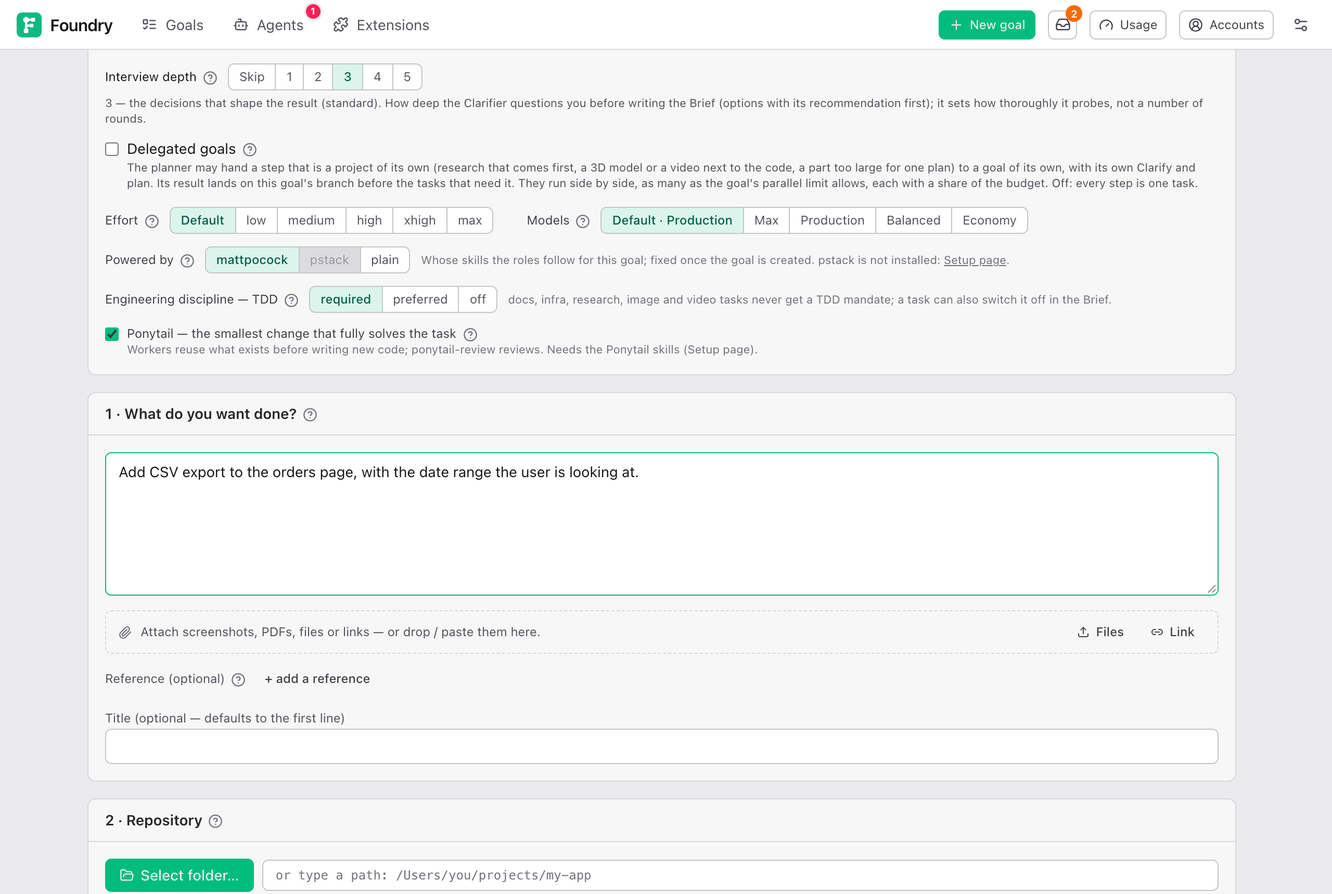
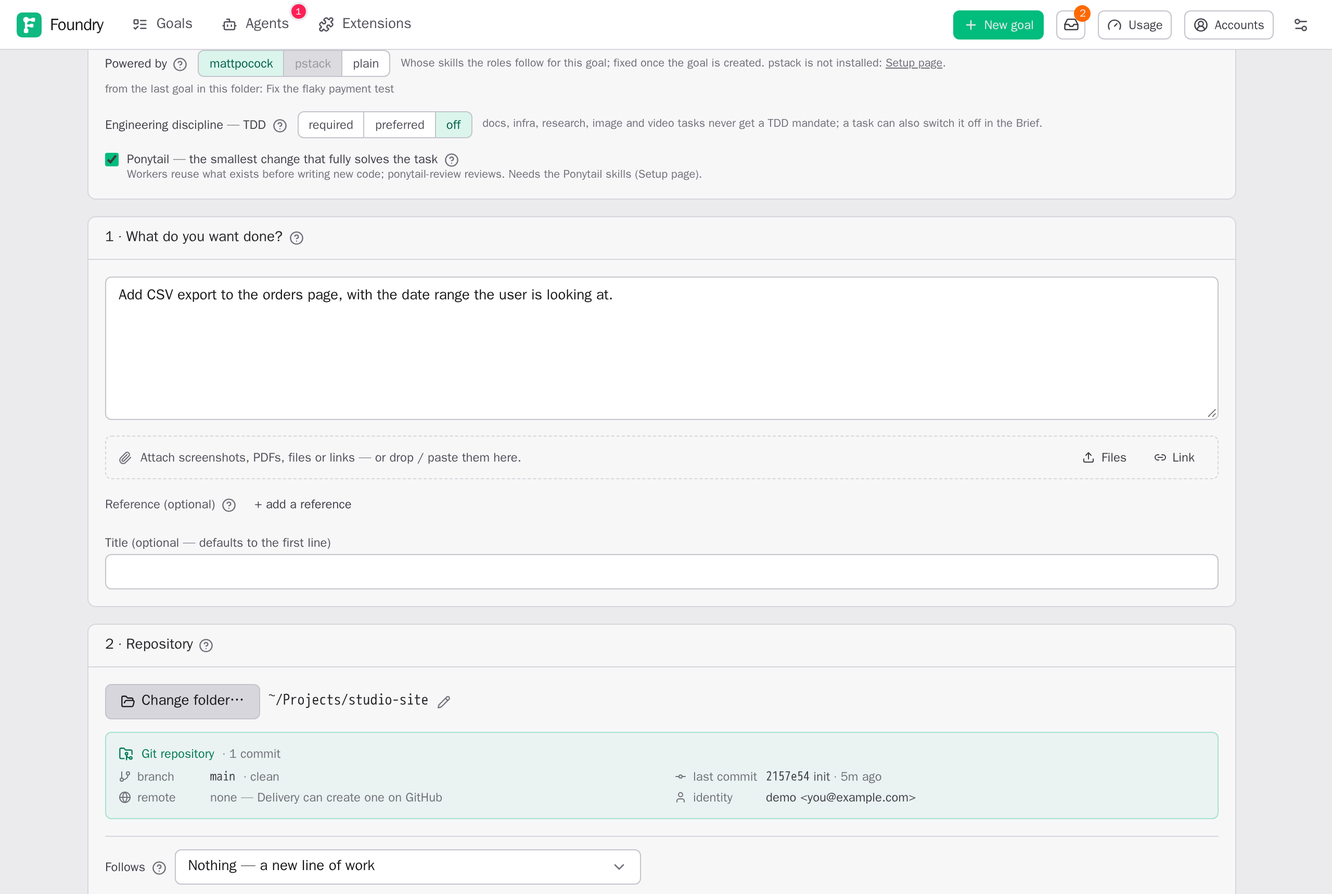
chore(new-goal): Document folder workflow defaults in both guides
Task: t_0mvgnmh5r02gyaesy6o
Goal: g_0mvgmzhkm00zmnhhzzf

diff --git a/scripts/screenshots.ts b/scripts/screenshots.ts
@@ -28,9 +28,13 @@ const mask = async () => {
   await page.evaluate(() => {
     // the dot on the ⚙ menu reports this machine's missing tools, not the demo's
     document.querySelector('button[aria-label="Settings, setup, help and theme"] span.bg-rose-500')?.remove();
+    // a ready repository can report the host's global git identity
+    for (const label of document.querySelectorAll('span')) {
+      if (label.textContent === 'identity' && label.nextElementSibling) label.nextElementSibling.textContent = 'demo <you@example.com>';
+    }
     const walk = document.createTreeWalker(document.body, NodeFilter.SHOW_TEXT);
     for (let n = walk.nextNode(); n; n = walk.nextNode()) {
-      n.textContent = (n.textContent ?? '').replace(/[\w.+-]+@[\w-]+(\.[\w-]+)+/g, 'you@example.com').replace(/\/(?:private\/)?var\/folders\/[^\s·]*?\/foundry-demo-[^/\s]+\//g, '~/Projects/');
+      n.textContent = (n.textContent ?? '').replace(/[\w.+-]+@[\w-]+(\.[\w-]+)+/g, 'you@example.com').replace(/\/(?:private\/)?(?:var\/folders\/[^\s·]*?\/|tmp\/)foundry-demo-[^/\s]+\//g, '~/Projects/');
     }
   });
 };
@@ -139,7 +143,16 @@ try {
     await page.evaluate(() => Array.from(document.querySelectorAll('div')).find((d) => d.textContent?.startsWith('Setup incomplete') && d.parentElement?.textContent !== d.textContent)?.remove());
   }, 560);
   await shot('new-goal', '/goals/new', async () => {
+    await page.getByRole('button', { name: 'Expert', exact: false }).click();
     await page.locator('textarea').first().fill('Add CSV export to the orders page, with the date range the user is looking at.');
+    const source = getGoal(demo.engine.store.db, g.blocked!);
+    if (!source) throw new Error('New goal capture needs a seeded repository');
+    const folder = page.getByPlaceholder('or type a path: /Users/you/projects/my-app');
+    await folder.fill(source.repoPath);
+    await folder.press('Enter');
+    await page.getByText('Git repository', { exact: false }).waitFor();
+    await page.getByText(`from the last goal in this folder: ${source.title}`, { exact: true }).waitFor();
+    await page.getByText('Powered by', { exact: true }).evaluate((el) => el.parentElement?.scrollIntoView({ block: 'start' }));
   });
   await shot('interview', `/goals/${g.interview}`);
   await shot('brief', `/goals/${g.brief}/brief`);

diff --git a/docs/guide/your-first-goal.md b/docs/guide/your-first-goal.md
@@ -59,7 +59,13 @@ Foundry works in a *repository*: a project folder that git keeps history for. Yo
 
 Press **New goal** in the top bar. The four numbered steps at the top right (**Goal**, **Repository**, **Budget**, **Delivery**) show how far you are. **Goal** turns green once you describe the goal, **Repository** once a ready folder is picked. **Budget** and **Delivery** are always green: their defaults work. The form starts with two cards of choices; the numbered cards **1** to **4** follow.
 
-Several choices start from [Settings → New goal defaults](./settings.md#new-goal-defaults): the view, **Fast mode**, TDD, Ponytail, the workflow suite, and the delivery mode and granularity. Change any of them here for this goal. A field you change on the page keeps your choice. Picking a ready repository folder fills untouched **Workflow suite**, **TDD** and **Ponytail** from the newest goal created in that exact folder (excluding imported history). In Expert view, a muted note under **Powered by** names it: `from the last goal in this folder: <title>`. The note stays while at least one field inherits from it. While validation is pending or fails, or if the folder has no earlier goal, untouched fields use Settings defaults. Revalidating after a pull or initialization refreshes them. A **Follow-up** opened from a goal page takes these three choices from that chosen goal instead, including its current saved Ponytail value, even if the folder has a newer goal. Later Settings or folder validation responses do not replace them, and the folder source note is hidden. You can still change them before creating the goal; the on-page **Follows** picker only links goals. Simple view still submits preferred TDD; Fast mode leaves TDD off.
+Several choices start from [Settings → New goal defaults](./settings.md#new-goal-defaults): the view, **Fast mode**, TDD, Ponytail, the workflow suite, and the delivery mode and granularity. You can change them for this goal.
+
+Picking a ready repository folder fills untouched **Workflow suite**, **TDD** and **Ponytail** from the newest goal by creation time in that exact folder path. Goals that are still imported history are excluded. The values come from the goal's current saved choices, including any later Ponytail change. Each field you change on this page keeps your choice. In Expert view, a muted note under **Powered by** names the source: `from the last goal in this folder: <title>`. It stays while at least one of the three fields still inherits from that goal.
+
+Picking another folder immediately resets untouched fields to Settings defaults and hides the old note. They stay at Settings defaults while validation is pending, if the folder is invalid or has no commits, or if it has no earlier goal. Successful validation applies that folder's latest values; revalidating after a pull or initialization refreshes them too.
+
+A **Follow-up** opened from a goal page prefills all three fields from the chosen earlier goal instead, even if the folder has a newer goal. Later Settings or folder validation responses do not replace them, and the folder source note is hidden. You can still change them before creating the goal. The on-page **Follows** picker only links goals. Simple view keeps the inherited suite and Ponytail but submits **preferred** TDD; **Fast mode** omits TDD, so the engine defaults it to **off**.
 
 ![The New goal form with the shared Coding agent selector](images/new-goal.png)
 
@@ -139,7 +145,7 @@ For **Auto** goals, **Default · By goal type** captures the configured defaults
 
 ### Workflow suite
 
-Only in Expert view, and **pstack** only once the Setup page has installed it (the card **Workflow suite — pstack** installs Foundry's own copy of one pinned release, without the plugin's hooks; Claude loads it per session, Codex gets its skills linked into the goal's workspace). Until then the option is greyed out; a folder's inherited pstack selection is kept, with installation guidance. **Powered by** picks whose skills the roles follow for this goal: **mattpocock** (the default: Matt Pocock's suite — tests first for features, diagnose first for bugs, code review at the end), **pstack** (pstack's suite, with Matt Pocock's skills where pstack has none) or **plain** (no rules: sessions only hear which skills are installed). The choice is fixed when the goal is created; a follow-up starts from the earlier goal's choice, and a delegated goal takes its main goal's. Simple view keeps the inherited suite, falling back to Settings when the folder has no earlier goal. The goal page and the Brief show it as a **Powered by** chip.
+The selector appears only in Expert view. **pstack** is available once the Setup page has installed it (the card **Workflow suite — pstack** installs Foundry's own copy of one pinned release, without the plugin's hooks; Claude loads it per session, Codex gets its skills linked into the goal's workspace). Until then the option is greyed out; a pstack selection inherited from a folder or Follow-up is kept, with installation guidance and the engine's existing fallback rules. **Powered by** picks whose skills the roles follow for this goal: **mattpocock** (the initial Settings default: Matt Pocock's suite — tests first for features, diagnose first for bugs, code review at the end), **pstack** (pstack's suite, with Matt Pocock's skills where pstack has none) or **plain** (no rules: sessions only hear which skills are installed). The choice is fixed when the goal is created; a goal-page Follow-up starts from the chosen earlier goal's choice, and a delegated goal takes its main goal's. Simple view uses the same suite inheritance as Expert view, with Settings as the fallback. For an older goal with no saved suite, the inherited suite comes from current Settings. The goal page and the Brief show it as a **Powered by** chip.
 
 ### Engineering discipline (TDD)
 
@@ -147,15 +153,15 @@ Only in Expert view. TDD means writing a test first, then the code that makes it
 
 | Choice | Meaning |
 |---|---|
-| **required** | Workers must follow it. Claude supplies skill-invocation evidence; Codex is reviewed from the work and tests. The default, unless Settings says otherwise. |
-| **preferred** | Suggested only. Simple view goals always use this. |
+| **required** | Workers must follow it. Claude supplies skill-invocation evidence; Codex is reviewed from the work and tests. The initial Settings default; folder and Follow-up inheritance can replace it. |
+| **preferred** | Suggested only. Simple view submits this unless Fast mode is on. |
 | **off** | Never mentioned. |
 
 Docs, infra, research, image and video tasks never get a TDD rule, and a single task can switch it off in the Brief. With **Fast mode** ticked, TDD is off.
 
 ### Ponytail: less code
 
-Only in Expert view, and on by default. Ponytail is "the lazy senior dev": before writing, a worker checks whether the code needs to exist at all, whether the repository, the standard library, the platform or an installed dependency already has it, and only then writes the smallest change that fully solves the task, callers, tests and fixtures included. The planner plans the same way, and `ponytail-review` reviews each task and the whole goal: it reads the code a change touches, not only the diff, and only its *must fix* findings (a bug, a security hole, data loss, breaking under the expected load) block; the rest goes into the review notes and the pull request. TDD still decides how tests are written. Work that is not code (documents, research, media) never sees it, and the switch can be changed later on the goal page, from the goal's next session. It needs the Ponytail skills, installed from the Setup page.
+The switch appears only in Expert view. The initial Settings default is on; the form uses the inheritance rules above. Ponytail is "the lazy senior dev": before writing, a worker checks whether the code needs to exist at all, whether the repository, the standard library, the platform or an installed dependency already has it, and only then writes the smallest change that fully solves the task, callers, tests and fixtures included. The planner plans the same way, and `ponytail-review` reviews each task and the whole goal: it reads the code a change touches, not only the diff, and only its *must fix* findings (a bug, a security hole, data loss, breaking under the expected load) block; the rest goes into the review notes and the pull request. TDD still decides how tests are written. Work that is not code (documents, research, media) never sees it, and the switch can be changed later on the goal page, from the goal's next session. It needs the Ponytail skills, installed from the Setup page.
 
 ### What do you want done
 
@@ -189,11 +195,11 @@ When earlier goals ran in this folder, a line under the card says how many [Lear
 
 ### Follows
 
-Under the repository, when it already has finished goals: **Follows** picks the earlier goal this one continues (or **Nothing — a new line of work**). The Clarifier then gets what that goal asked for, what was decided and how it ended, so you do not have to explain it again.
+Under the repository, when it already has finished goals: **Follows** picks the earlier goal this one continues (or **Nothing — a new line of work**). The Clarifier then gets what that goal asked for, what was decided and how it ended, so you do not have to explain it again. Changing this picker leaves **Workflow suite**, **TDD** and **Ponytail** unchanged.
 
 The card below the picker says where the new goal starts. If the earlier goal's work is already on your base branch (its pull request was merged), it starts from there. If not (a Local only goal, an unmerged pull request, a failed goal), it starts from the earlier goal's branch, and those changes go along in this goal's pull request. **Start from** switches between the two. Tick or untick **Bring its attachments** and **Keep its style direction** to take them along or leave them.
 
-**Continue with a follow-up…** on a finished goal opens this form already filled in; see [Continue with a follow-up](./getting-the-result.md#continue-with-a-follow-up).
+**Continue with a follow-up…** on a finished goal opens this form already filled in, including that goal's **Workflow suite**, **TDD** and current saved **Ponytail**. These take precedence over the folder defaults; see [Continue with a follow-up](./getting-the-result.md#continue-with-a-follow-up).
 
 ### Budget
 
@@ -225,7 +231,7 @@ The self-check (Foundry opens the running result in a hidden browser and takes s
 
 The button says **Create & clarify** (or **Create & run** if you skipped Clarify). If it is greyed out, the text next to it names the first thing missing: **Describe the goal**, **Select a repository folder**, **Repository is not ready (see above)**, **Sign in to Claude Code first: see Accounts** (or Codex, whichever coding agent you chose), **Choose a model preset (see above)**, or a Codex model that does not support the chosen reasoning.
 
-This browser remembers the kind of goal, the budget and the finer delivery options (such as the merge method and the CI switches), so the next goal starts with them. The view, Fast mode, TDD, and the delivery mode and granularity start from Settings → New goal defaults every time.
+This browser remembers the kind of goal, the budget and the finer delivery options (such as the merge method and the CI switches), so the next goal starts with them. The view, **Fast mode**, and the delivery mode and granularity start from Settings → New goal defaults. **Workflow suite**, **TDD** and **Ponytail** follow the folder and Follow-up rules above; the browser does not remember them as defaults.
 
 Then you land on the goal's Brief page, and Foundry starts reading your project:
 

diff --git a/CONTEXT.md b/CONTEXT.md
@@ -23,7 +23,7 @@ One Plan → Act → Observe pass at a Task, performed in a fresh session of the
 The next segment of the same Attempt: its session is resumed by the same Coding agent with everything it already knows, instead of a fresh session that must understand the Task again. The engine continues an Attempt when its session was cut (engine restart, an applicable session cap, timeout) or when the Checks still fail but the segment made progress; a Continuation consumes no retry, and an Attempt is continued at most a few times before a genuine new Attempt (fresh session, Observation Report) takes over. A Merge Attempt's second try is a Continuation of its first.
 
 **Follow-up**
-A Goal that continues an earlier, finished Goal of the same repository: B *follows* A, and A is *followed by* B; chains are allowed (A → B → C). A Follow-up is given what A asked for, what was understood and decided, and how it ended, as background for its Clarify; that background is copied when the Follow-up is created, so it survives A being deleted. It starts from the base branch when A's work is already there, otherwise from A's Goal branch — then A's changes travel in B's Delivery. The form prefills the earlier coding agent, preset choice, Workflow suite and any explicit all-role Codex model override. A Follow-up is a new Goal: its creation captures the then-current preset tables, not the earlier Goal’s frozen table. A Goal can also be marked as a Follow-up afterwards, which records the relationship and nothing else.
+A Goal that continues an earlier, finished Goal of the same repository: B *follows* A, and A is *followed by* B; chains are allowed (A → B → C). A Follow-up is given what A asked for, what was understood and decided, and how it ended, as background for its Clarify; that background is copied when the Follow-up is created, so it survives A being deleted. It starts from the base branch when A's work is already there, otherwise from A's Goal branch — then A's changes travel in B's Delivery. Opening Follow-up from a Goal page prefills the web form with the earlier coding agent, preset choice, Workflow suite, TDD, current saved Ponytail and any explicit all-role Codex model override. Those three workflow choices take precedence over folder defaults; the on-page Follows picker only links Goals. Simple view still submits preferred TDD, and Fast mode leaves TDD to the engine’s off default. A Follow-up is a new Goal: its creation captures the then-current preset tables, not the earlier Goal’s frozen table. A Goal can also be marked as a Follow-up afterwards, which records the relationship and nothing else.
 _Avoid_: continuation (a resumed session inside an Attempt), child goal, sub-goal (a step done by a goal of its own while the Goal runs is a Delegated goal)
 
 **Learnings**
@@ -241,7 +241,7 @@ Where an installed Skill comes from and who updates it: a GitHub repository mana
 A user-level Skill that has the same name as a Skill provided by a plugin. Both load; prompts use the plugin's copy because it is the one that gets updated. Shadow copies are reported and can be moved to the trash in one click.
 
 **Workflow suite**
-Whose Skills the Roles of a Goal follow: *mattpocock* (Matt Pocock's suite, the default), *pstack* (pstack's suite, with Matt Pocock's Skills for the Roles it has none for), or *plain* (no rules, only the one-line list of installed Skills). A Settings default that each Goal fixes for itself when it is created — on the New goal form in Expert view, from the default in Simple view; a Follow-up starts from the earlier Goal's, a Delegated goal takes its main goal's. Stored as the Goal's workflow `profile`. pstack is kept as Foundry's own copy of one pinned release of its plugin, without the plugin's hooks, under the data directory; a Claude session of a pstack Goal loads it with `--plugin-dir` (`/pstack:<skill>`), a Codex session finds its Skills linked into the workspace as `.agents/skills/pstack-<skill>`. On the Extensions page the copy is one source whose rows are named `pstack:<skill>`, so they never shadow a Skill that shares the bare name.
+Whose Skills the Roles of a Goal follow: *mattpocock* (Matt Pocock's suite, the default), *pstack* (pstack's suite, with Matt Pocock's Skills for the Roles it has none for), or *plain* (no rules, only the one-line list of installed Skills). Each Goal fixes its suite when it is created. In both Expert and Simple views, a ready folder prefills untouched Workflow suite, TDD and Ponytail from its newest Goal by creation time at the exact same repository path, excluding Imported Goals still held as history. Settings supplies the fallback, including while folder validation is pending or invalid; manual edits stay. In Expert view a note under Powered by names the source while any of the three fields still inherits. A Goal-page Follow-up takes these choices from the chosen earlier Goal instead, and hides the folder note; a Delegated goal takes its main goal’s suite. Stored as the Goal's workflow `profile`. pstack is kept as Foundry's own copy of one pinned release of its plugin, without the plugin's hooks, under the data directory; a Claude session of a pstack Goal loads it with `--plugin-dir` (`/pstack:<skill>`), a Codex session finds its Skills linked into the workspace as `.agents/skills/pstack-<skill>`. On the Extensions page the copy is one source whose rows are named `pstack:<skill>`, so they never shadow a Skill that shares the bare name.
 _Avoid_: pack (a Design, Image or Video Pack is a set of Skills for one kind of Task, chosen in Settings only), profile (the field's name, not the term), workflow (the suite is one part of a Goal's workflow, next to TDD, Ponytail and pace)
 
 **Workflow Skill**

diff --git a/docs/guide/settings.md b/docs/guide/settings.md
@@ -43,7 +43,13 @@ What a new goal starts with. Most of them can be changed for one goal on the New
 
 Under **Delivery — what happens to the branch when a goal finishes**: **Mode for new goals** (local only), **Granularity** (one PR per goal) and **Remote** (origin). See [Getting the result](./getting-the-result.md).
 
-Good to know: the New goal form starts from these defaults. **Default goal view**, **Pace**, **TDD**, **Ponytail**, **Workflow suite**, **Effort**, and the delivery **Mode for new goals** and **Granularity** are filled in from here, and the form picks the **Remote** named here when the project has it. Picking a ready repository folder replaces untouched **Workflow suite**, **TDD** and **Ponytail** with its newest non-history goal’s saved choices; pending or invalid folders and folders with no goal use these Settings defaults. A Follow-up opened from a goal page takes those three choices, including the current saved Ponytail value, from the chosen earlier goal instead, even when the folder has a newer goal; later Settings and folder responses do not replace them. The on-page **Follows** picker only links goals. A field you change on the form keeps your choice for that goal. **Interview** and the model preset follow Settings whenever the form is left at its default. Selecting **Default** effort for Codex explicitly uses role preset efforts. The form itself remembers, in this browser, the kind of goal, the budget and the finer delivery options (such as the merge method).
+Good to know: the New goal form starts from these defaults. **Default goal view**, **Pace**, **TDD**, **Ponytail**, **Workflow suite**, **Effort**, and the delivery **Mode for new goals** and **Granularity** are filled in from here, and the form picks the **Remote** named here when the project has it.
+
+Picking a ready repository folder replaces untouched **Workflow suite**, **TDD** and **Ponytail** with the current saved choices of the newest goal by creation time at that exact folder path, excluding goals still held as imported history. Picking another folder immediately resets untouched fields to Settings defaults while validation is pending; invalid folders, folders without commits and folders with no earlier goal keep these defaults. In Expert view, `from the last goal in this folder: <title>` appears under **Powered by** while at least one field still inherits from that goal. Revalidation refreshes the inherited values and note.
+
+A **Follow-up** opened from a goal page takes those three choices, including the current saved Ponytail value, from the chosen earlier goal instead, even when the folder has a newer goal; later Settings and folder responses do not replace them, and the folder source note is hidden. Simple view keeps the inherited suite and Ponytail but submits **preferred** TDD; **Fast mode** omits TDD, which the engine defaults to **off**. The on-page **Follows** picker only links goals. A field you change on the form keeps your choice for that goal.
+
+**Interview** and the model preset follow Settings whenever the form is left at its default. Selecting **Default** effort for Codex explicitly uses role preset efforts. The form itself remembers, in this browser, the kind of goal, the budget and the finer delivery options (such as the merge method).
 
 When to change: raise **Interview depth** if you like to be asked about details; set **Effort** lower if most of your goals are small; lower **Goal-level fix cycles** to 0 if you would rather see failed reviews yourself.
 

diff --git a/docs/guide/settings.zh.md b/docs/guide/settings.zh.md
@@ -43,7 +43,13 @@
 
 在 **Delivery — what happens to the branch when a goal finishes** 下：**Mode for new goals**（local only）、**Granularity**（one PR per goal）和 **Remote**（origin）。见 [拿到结果](./getting-the-result.zh.md)。
 
-值得知道：New goal 表单就从这些默认值开始。**Default goal view**、**Pace**、**TDD**、**Ponytail**、**Workflow suite**、**Effort**，以及交付的 **Mode for new goals** 和 **Granularity** 都从这里填入；项目里有这里写的 **Remote** 时，表单也会选它。选好可用的仓库文件夹后，未改过的 **Workflow suite**、**TDD** 和 **Ponytail** 会使用其中最新的非历史 goal 当前保存的选择；验证进行中、文件夹无效或还没有 goal 时使用这些 Settings 默认值。从 goal 页面打开的 Follow-up 则优先使用所选较早 goal 的这三项选择，包括它当前保存的 Ponytail 值，即使文件夹里已有更新的 goal；稍后返回的 Settings 和文件夹结果不会覆盖它们。页面上的 **Follows** 选择器只建立关联。你在表单上改过的字段，会为这个 goal 保留你的选择。**Interview** 和模型预设只要在表单上保持默认，就跟随 Settings。Codex 主动选择 **Default** effort 则明确使用各角色的预设强度。表单自己会在这个浏览器里记住 goal 类型、预算，以及更细的交付选项（比如合并方式）。
+值得知道：New goal 表单就从这些默认值开始。**Default goal view**、**Pace**、**TDD**、**Ponytail**、**Workflow suite**、**Effort**，以及交付的 **Mode for new goals** 和 **Granularity** 都从这里填入；项目里有这里写的 **Remote** 时，表单也会选它。
+
+选好可用的仓库文件夹后，未改过的 **Workflow suite**、**TDD** 和 **Ponytail** 会使用完全相同路径下按创建时间最新的 goal 当前保存的选择，仍属于导入历史记录的 goal 不参与选择。选择另一个文件夹时，未改过的字段会立即重置为 Settings 默认值，等待验证；文件夹无效、没有提交或没有更早的 goal 时，继续使用这些默认值。在 Expert 视图里，只要还有一项继承自该 goal，**Powered by** 下方就会显示 `from the last goal in this folder: <title>`。重新验证会刷新继承值和来源提示。
+
+从 goal 页面打开的 **Follow-up** 则优先使用所选较早 goal 的这三项选择，包括它当前保存的 Ponytail 值，即使文件夹里已有更新的 goal；稍后返回的 Settings 和文件夹结果不会覆盖它们，也不会显示文件夹来源提示。Simple 视图保留继承的套件和 Ponytail，但提交 **preferred** TDD；**Fast mode** 不提交 TDD，由引擎默认设为 **off**。页面上的 **Follows** 选择器只建立关联。你在表单上改过的字段，会为这个 goal 保留你的选择。
+
+**Interview** 和模型预设只要在表单上保持默认，就跟随 Settings。Codex 主动选择 **Default** effort 则明确使用各角色的预设强度。表单自己会在这个浏览器里记住 goal 类型、预算，以及更细的交付选项（比如合并方式）。
 
 什么时候改：喜欢被问到细节的话，调高 **Interview depth**；大多数 goal 都很小的话，调低 **Effort**；如果你宁愿自己看没通过的审查，把 **Goal-level fix cycles** 降到 0。
 
